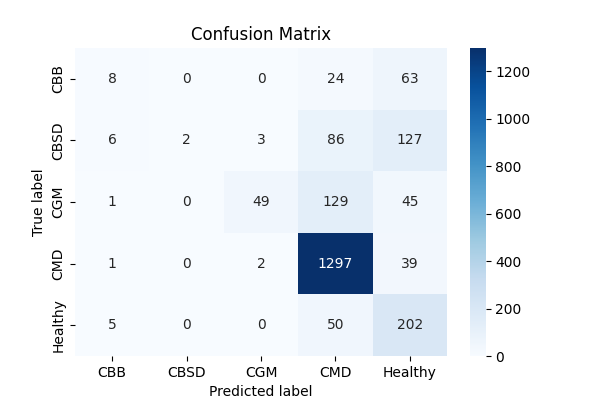
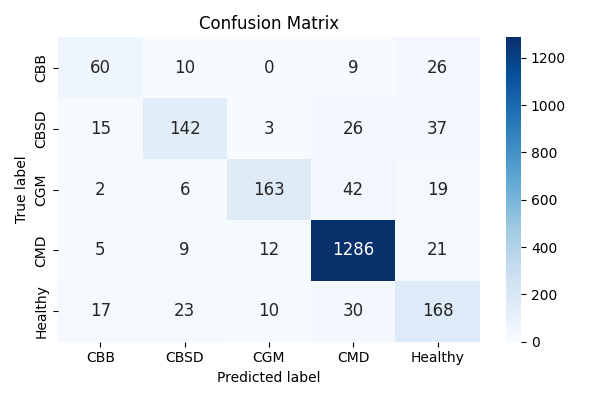
Unet model implementation

diff --git a/models.py b/models.py
@@ -4,16 +4,19 @@ import numpy as np
 import seaborn as sns
 import math
 
-from keras.applications import EfficientNetB4,EfficientNetB3
-from keras.layers import GlobalAveragePooling2D, Dense
+from keras.applications import EfficientNetB3
+from keras.layers import GlobalAveragePooling2D, Dense,AveragePooling2D, Flatten
 from keras.losses import SparseCategoricalCrossentropy
 from keras.metrics import SparseCategoricalAccuracy
 from keras.models import Model
 from keras.optimizers import Adam
 from keras import layers
 from keras import backend as K
-from keras.callbacks import ReduceLROnPlateau
+from keras import regularizers
+from keras.callbacks import ReduceLROnPlateau, EarlyStopping,ModelCheckpoint
 from sklearn.utils import compute_class_weight
+import unet
+import cv2
 
 
 
@@ -25,6 +28,16 @@ from sklearn.metrics import (
     recall_score,
     accuracy_score
 )
+
+# Build Unet Model
+unet_model = unet.build_model(512,
+                              channels=3,
+                              num_classes=2,
+                              layer_depth=4,
+                              filters_root=64,
+                              padding="same")
+
+unet_model.load_weights("best_model.h5")
 
 def sparse_categorical_focal_loss(gamma=2.0, from_logits=False, class_weights=None):
   """
@@ -40,6 +53,8 @@ def sparse_categorical_focal_loss(gamma=2.0, from_logits=False, class_weights=No
   """
 
   def loss(y_true, y_pred):
+    """ Focal loss function
+    """
 
     epsilon = K.epsilon()
 
@@ -77,8 +92,27 @@ def sparse_categorical_focal_loss(gamma=2.0, from_logits=False, class_weights=No
 
   return loss
 
+# Define a function to adjust learning rate based on epoch
+def learning_rate_schedule(epoch):
+  """
+  This function reduces the learning rate by a factor of 0.1 every 10 epochs.
+  """
+  initial_lr = 0.001  # Initial learning rate
+  decay = 0.1  # Learning rate decay factor
+  epochs_per_decay = 10  # Number of epochs before decaying learning rate
 
+  learning_rate = initial_lr * (decay**(epoch // epochs_per_decay))
+  return learning_rate
+  
 
+def segment_data(image, label, _):
+    # Apply UNet model and generate mask (outside map)
+    mask = unet_model(tf.expand_dims(image, axis=0)) #tf.expand_dims(image, axis=0)
+    soil_mask = tf.where(tf.transpose(mask[0], (2, 0, 1))[0] <= 0.5, 1, 0)
+    masked_img = image * tf.expand_dims(tf.cast(soil_mask, image.dtype), axis=-1)
+
+    return  masked_img, label
+    
 class ModelTrainer:
 
     def __init__(self, batch_size, labels:dict, dataset, num_classes=5):
@@ -88,20 +122,18 @@ class ModelTrainer:
         self.class_labels_dict = labels 
         self.class_names = list(self.class_labels_dict.values())
 
-        # Reconfigure the datasets to have only image and label
-        self.valid_set = dataset['valid'].map(lambda image, label, _: (image, label)).batch(self.batch_size).prefetch(tf.data.AUTOTUNE)
-        self.train_set = dataset['train'].map(lambda image, label, _: (image, label)).batch(self.batch_size).prefetch(tf.data.AUTOTUNE)
-        self.test_set = dataset['test'].map(lambda image, label, _: (image, label)).batch(self.batch_size).prefetch(tf.data.AUTOTUNE)
-
+        
+        train_dataset = dataset['train'].map(segment_data,num_parallel_calls=tf.data.experimental.AUTOTUNE)
+        valid_dataset = dataset['valid'].map(segment_data,num_parallel_calls=tf.data.experimental.AUTOTUNE)
+        test_dataset = dataset['test'].map(segment_data,num_parallel_calls=tf.data.experimental.AUTOTUNE)
+        
+        # Cache the datasets after applying any operations that limit the dataset size
+        self.train_set  = train_dataset.batch(batch_size) #.cache()
+        self.valid_set = valid_dataset.batch(batch_size) #.cache()
+        self.test_set = test_dataset.batch(32)
+        
         dataset_ytrain = dataset['train'].map(lambda image, label,_: label)
         self.ytrain =  [label.numpy() for label in dataset_ytrain]
-
-        #test_set = dataset['test'].map(lambda image, label, image_name: (image))
-        #test_set = dataset['valid'].map(lambda image, label, image_name: (image))
-        #self.test_images = test_set.batch(self.batch_size).prefetch(tf.data.AUTOTUNE)
-        #self.test_images_list = list(test_set)
-        #self.test_labels= list(dataset['valid'].map(lambda image, label, image_name: (label)).as_numpy_iterator())
-
 
 
     def train_efficientnet_transfer_learning(self, params, input_shape=(512, 512, 3)):
@@ -114,9 +146,9 @@ class ModelTrainer:
         # Add layers on top of base model
         x = base_model.output
         x = GlobalAveragePooling2D()(x)
-        x = Dense(256, activation="relu")(x)
+        x = layers.Dropout(0.5)(x)
+        x = Dense(256, activation="relu",kernel_regularizer=regularizers.l2(l2=0.05))(x)
         x = layers.BatchNormalization()(x)
-        x = layers.Dropout(0.2)(x)
         outputs = Dense(5, activation="softmax")(x)
 
 
@@ -124,38 +156,38 @@ class ModelTrainer:
         for layer in base_model.layers[-5:]:
             layer.trainable = True
 
-        #loss_fn = sparse_categorical_focal_loss(gamma=2, from_logits=True, class_weights = class_weights_v1)
+        loss_fn = sparse_categorical_focal_loss(gamma=2.0, from_logits=True)
 
 
         # Define the model
         model = Model(inputs=base_model.input, outputs=outputs)
 
-        # Compile the model
-        #model.compile(optimizer=Adam(),
-        #            loss=SparseCategoricalCrossentropy(),
-        #            metrics=['accuracy'])
-
         # Use original class distribution as class weights
-        #class_distribution = {3: 0.61, 4: 0.12, 2: 0.11, 1: 0.10, 0: 0.05}
-        #class_weights = {3: 1 / 0.61, 4: 1 / 0.12, 2: 1 / 0.11, 1: 1 / 0.10, 0: 1 / 0.05}
         class_weights = compute_weights(self.ytrain)
         print(class_weights)
 
         # Define the callback
-        reduce_lr = ReduceLROnPlateau(monitor='val_loss', 
+        reduce_lr = ReduceLROnPlateau(monitor='val_accuracy', 
                                     factor=0.1, 
-                                    patience=5, 
-                                    min_lr=0.0001)
-
-        optimizer = Adam(learning_rate=0.01) 
+                                    patience=4, 
+                                    min_delta=0.008,
+                                    min_lr=0.0001) 
+                                    
+        # Define EarlyStopping callback for early stopping
+        early_stopping = EarlyStopping(
+            monitor='val_accuracy',
+            patience=10,  
+            restore_best_weights=True
+        )
+                
 
         # Compile the model
         model.compile(optimizer=Adam(),
                     loss=SparseCategoricalCrossentropy(),
                     metrics=['accuracy'])
-
+        
         # Train the model 
-        historic_data = model.fit(self.train_set, validation_data = self.valid_set,class_weight=class_weights, **params) #callbacks=[reduce_lr]
+        historic_data = model.fit(self.train_set, validation_data = self.valid_set, **params,callbacks=[reduce_lr, early_stopping],class_weight = class_weights) 
 
         return historic_data,model
     
@@ -194,7 +226,7 @@ class ModelTrainer:
         # Create a heatmap for the confusion matrix
         plt.figure(figsize=(6, 4))
         sns.heatmap(conf_matrix, annot=True, fmt='d', cmap='Blues', 
-                    xticklabels=self.class_names, yticklabels=self.class_names)
+                    xticklabels=self.class_names, yticklabels=self.class_names,annot_kws={"size": 12})
 
         plt.title('Confusion Matrix')
         plt.xlabel('Predicted label')
@@ -202,6 +234,8 @@ class ModelTrainer:
 
         # Define the path where you want to save the plot
         folder_path = "./figures"
+        
+        plt.tight_layout()
 
         # Save plot in the figures folder
         plt.savefig(f"{folder_path}/{filename}.png")
@@ -216,26 +250,30 @@ def plot_accuracy_epochs(history,metric, filename:str):
 
     Arguments:
         history: history object from model training
+        metric: metric to plot (accuracy or loss)
         filename (str) : specify the file name
 
     Returns:
     """
     
-    plt.figure(figsize=(20,5))
+    plt.figure(figsize=(10,5))
 
     # Create a list of the epochs
     epochs = range(1,len(history.history['loss'])+1)
 
     plt.plot(epochs,history.history[metric], label='Training Accuracy',marker='o')
     plt.plot(epochs,history.history['val_'+ metric], label='Validation Accuracy',marker='o')
-    plt.xticks(epochs)
-    plt.xlabel('Epochs')
-    plt.ylabel('Accuracy')
-    plt.title('Training and Validation Accuracy')
+    plt.xticks(epochs[::2],fontsize=12)
+    plt.yticks(fontsize=12)
+    plt.xlabel('Epochs',fontsize=12)
+    plt.ylabel('Accuracy',fontsize=12)
+    plt.title('Training and Validation Accuracy',fontsize=12)
     plt.legend()
 
     # Define the path where you want to save the plot
     folder_path = "./figures"
+    
+    plt.tight_layout()
 
     # Save plot in the figures folder
     plt.savefig(f"{folder_path}/{filename}.png")
@@ -244,6 +282,17 @@ def plot_accuracy_epochs(history,metric, filename:str):
     plt.close()
 
 def prediction(data, model):
+
+    """
+    Makes predictions using a given model on a dataset.
+
+    Parameters:
+        data (tf.data.Dataset): Dataset containing images and labels.
+        model (tf.keras.Model): Model used for making predictions.
+
+    Returns:
+        tuple: A tuple containing lists of predicted labels, true labels, and images.
+    """
 
     true_labels, predicted_labels = [], []
     images = []  # List to store images
@@ -263,7 +312,16 @@ def prediction(data, model):
     return predicted_labels,true_labels,images
 
 def misclassified_samples(predicted_labels,true_labels,images,filename):
+    """
+    Visualizes misclassified samples.
 
+    Arguments:
+        predicted_labels (list): List of predicted labels.
+        true_labels (list): List of true labels.
+        images (numpy.ndarray): Array of images.
+        filename (str): Filename for saving the plot.
+     """
+    
     num_samples = 6
     # Find misclassified indexes
     misclassified_indexes = np.where(np.array(predicted_labels) != np.array(true_labels))[0]
@@ -302,6 +360,8 @@ def misclassified_samples(predicted_labels,true_labels,images,filename):
     
     # Define the path where you want to save the plot
     folder_path = "./figures"
+    
+    plt.tight_layout()
 
     # Save plot in the figures folder
     plt.savefig(f"{folder_path}/misclassification_{filename}.png")
@@ -310,6 +370,15 @@ def misclassified_samples(predicted_labels,true_labels,images,filename):
     plt.close()
 
 def compute_weights(y_train):
+    """
+    Computes class weights for imbalanced datasets.
+
+    Parameters:
+        y_train (array-like): Array-like object containing true labels.
+
+    Returns:
+        dict: A dictionary containing class weights.
+     """
 
     #y_train = list(dataset['train'].map(lambda image, label, _: (label)))
     class_weights = compute_class_weight(

diff --git a/main.py b/main.py
@@ -36,7 +36,7 @@ abbrev_labels = data_loader.load_label_dictionary()
 preprocessor = Preprocessing(dataset)
 
 # Preprocess steps
-target_size = (512, 512) # original 512x 512
+target_size = (512, 512) 
 preprocessor.resize_dataset(target_size)
 #preprocessor.normalize_data()
 
@@ -53,11 +53,11 @@ datasets = {
 # ======================================================================================================================
 # Models Training
 
-trainer = ModelTrainer(batch_size=32, num_classes=5, dataset = datasets, labels = abbrev_labels)
+trainer = ModelTrainer(batch_size=64, num_classes=5, dataset = datasets, labels = abbrev_labels)
 
 # Dictionary containing model fit parameters
 params = {
-    'epochs': 20,
+    'epochs': 40,
     'verbose': 1
 }
 
@@ -67,47 +67,11 @@ plot_accuracy_epochs(historic_data,'accuracy',"EfficientNetB3 learning")
 
 # Predict
 print("Prediction")
-predicted_labels,true_labels,images = prediction(trainer.valid_set,model)
+predicted_labels,true_labels,images = prediction(trainer.test_set,model)
 
 # Report Results
 print("Report")
 trainer.report_multi_results(predicted_labels,true_labels,"EfficientNet Report")
 
-
-# Evaluate model on validation set
-#loss, accuracy = model.evaluate(trainer.valid_set)
-#print("Validation Loss:", loss)
-#print("Validation Accuracy:", accuracy)
-
 # Plot some misclassified samples for error analysis
 misclassified_samples(predicted_labels,true_labels,images,"B3")
-
-
-
-#data_train, data_val, data_test = data_preprocessing(args...)
-# ======================================================================================================================
-# Task A
-#model_A = A(args...)                 # Build model object.
-#acc_A_train = model_A.train(args...) # Train model based on the training set (you should fine-tune your model based on validation set.)
-#acc_A_test = model_A.test(args...)   # Test model based on the test set.
-#Clean up memory/GPU etc...             # Some code to free memory if necessary.
-
-
-# ======================================================================================================================
-# Task B
-#model_B = B(args...)
-#acc_B_train = model_B.train(args...)
-#acc_B_test = model_B.test(args...)
-#Clean up memory/GPU etc...
-
-
-
-
-# ======================================================================================================================
-## Print out your results with following format:
-#print('TA:{},{};TB:{},{};'.format(acc_A_train, acc_A_test,
-#                                                        acc_B_train, acc_B_test))
-
-# If you are not able to finish a task, fill the corresponding variable with 'TBD'. For example:
-# acc_A_train = 'TBD'
-# acc_B_test = 'TBD'

diff --git a/helper_functions.py b/helper_functions.py
@@ -100,12 +100,12 @@ class TFRecordDatasetLoader:
         value_labels = [abbreviations[str(value)] for value in label_counts.index]
 
         # Create bar plot
-        fig, ax = plt.subplots(figsize=(10, 6))
+        fig, ax = plt.subplots(figsize=(8, 5))
         label_counts.plot(kind='bar', ax=ax)
         ax.set_xlabel('')
         ax.set_ylabel('Image Count')
         ax.set_title('Class Distribution')
-        ax.set_xticklabels(value_labels, rotation=0)
+        ax.set_xticklabels(value_labels, rotation=0,fontsize=12)
         
         # Add percentage labels on top of each bar
         total = label_counts.sum()
